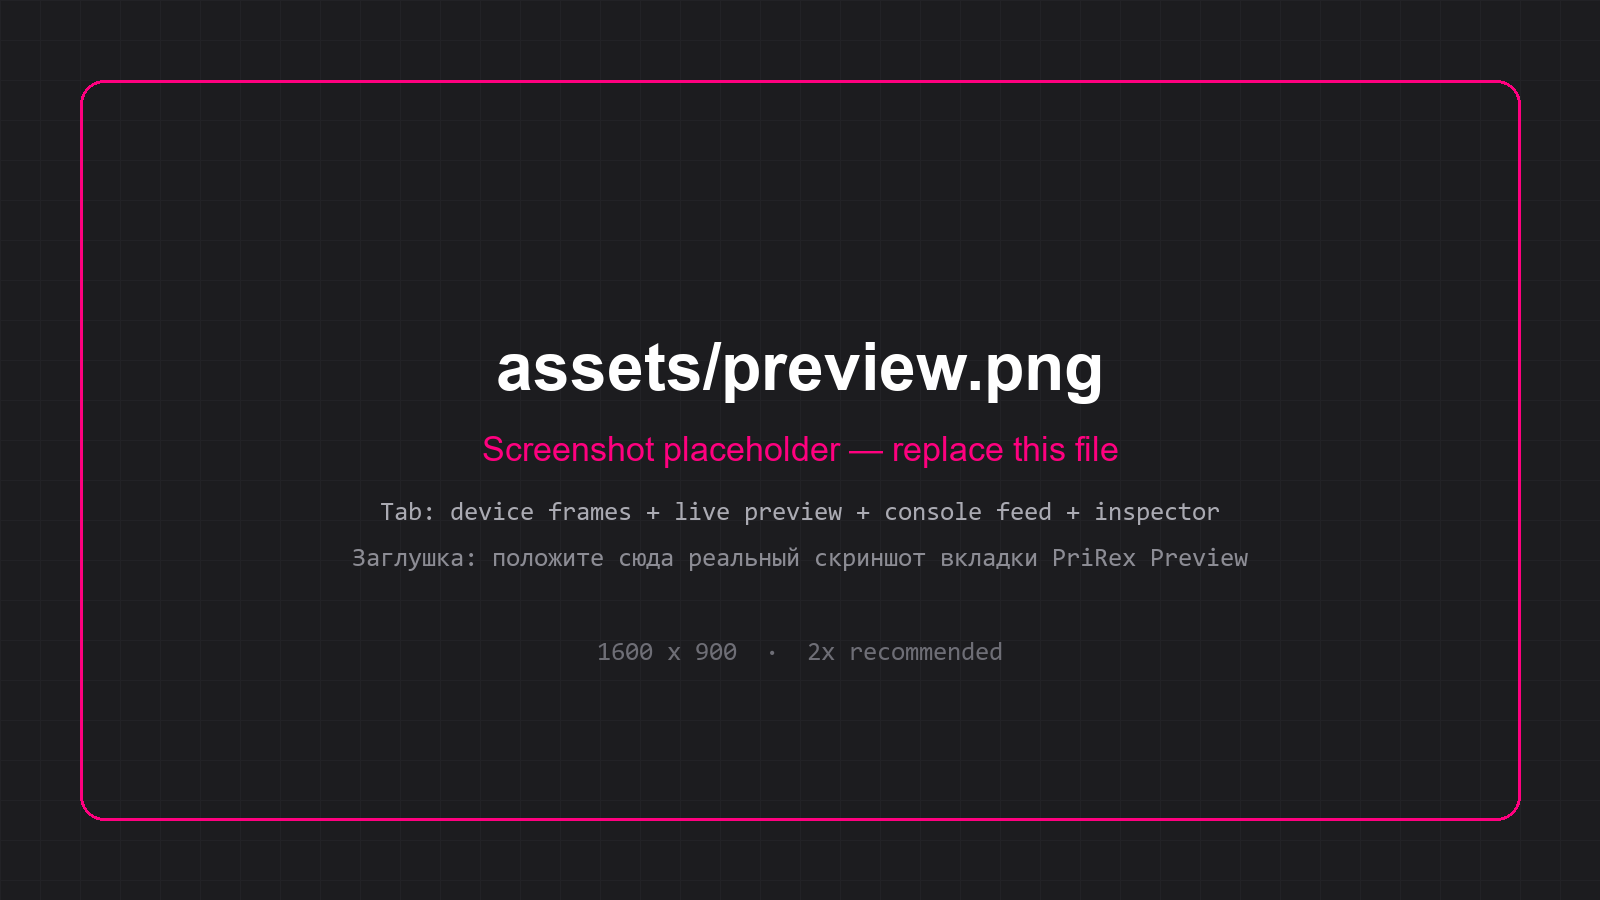
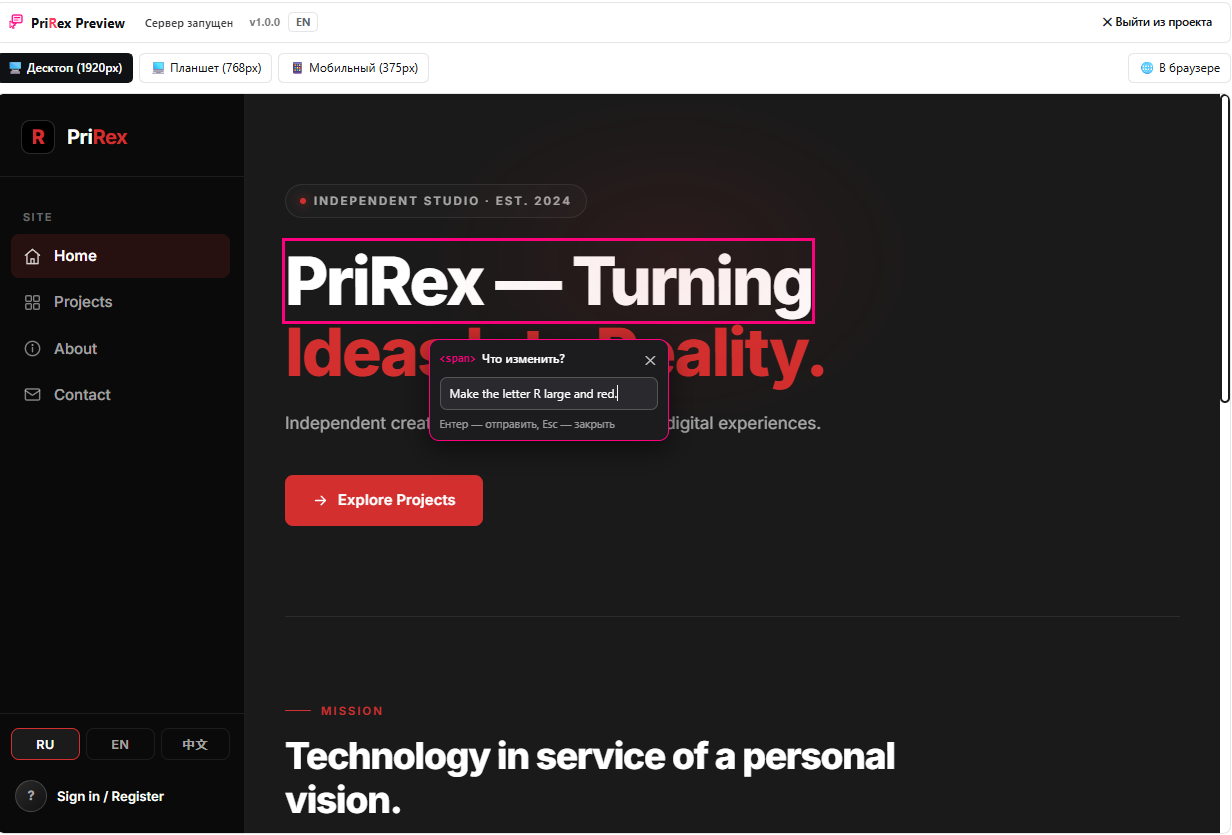
docs: replace screenshot placeholders with real product captures
Hero is the live tab (server running, device frames, inspector panel); adds device-frame, inspector close-up and the inspector-to-chat-draft shot with bilingual captions.

diff --git a/assets/README.md b/assets/README.md
@@ -1,23 +1,21 @@
 # Screenshots / Скриншоты
 
-Place release screenshots in this folder. / Положите скриншоты релиза в эту папку.
+All images here are real captures of PriRex Preview inside DeepSeek Harness.
+Все изображения — реальные кадры PriRex Preview в DeepSeek Harness.
 
-| File / Файл        | Status / Статус   | Content / Содержимое                                                   |
-| ------------------ | ----------------- | ---------------------------------------------------------------------- |
-| `inspector.png`    | real capture / реальный кадр | "What should change?" panel over a frozen element, served by the plugin |
-| `preview.png`      | placeholder / заглушка | Tab with device frames + live page (replace it / замените)        |
-| `console-feed.png` | optional / опционально | Console error journal with a captured error                          |
+| File / Файл          | Where it is used / Где используется            | Content / Содержимое                                                     |
+| -------------------- | --------------------------------------------- | ------------------------------------------------------------------------ |
+| `preview.png`        | README hero                                   | Open tab: server running, device buttons, live page, inspector panel      |
+| `device-frame.png`   | README, screenshots table                     | 1920 px frame with the previewed page, no DSH chrome                      |
+| `inspector.png`      | README, screenshots table                     | Close-up: frozen `<span>` with the «Что изменить?» panel                   |
+| `chat-insertion.png` | README, "From the inspector to the chat draft"| Chat draft with injected HTML + computed styles beside the live tab       |
+| `console-feed.png`   | optional / опционально                        | Console error journal with a captured error (not captured yet)            |
 
-`inspector.png` was captured from the actual injected inspector: the page is served by the plugin's
-preview server, the `<h1>` was hovered until it froze (pink outline) and the edit panel opened.
-Русский интерфейс панели соответствует языку по умолчанию (`prirex.lang = ru`).
+Notes / Заметки:
 
-`preview.png` is currently a labelled **placeholder** so the README renders without a broken image;
-replace it with a real screenshot of the DSH right-panel tab before publishing.
-/ Сейчас `preview.png` — подписанная **заглушка**; замените её настоящим скриншотом вкладки.
-
-Guidelines / Требования:
-
-- PNG, 2× scaling (Retina), dark theme of DSH / тёмная тема DSH;
-- crop out personal paths, API keys, chat content / обрежьте личные пути, ключи и переписку;
-- recommended size for the tab shot: 1200–1600 px wide / для вкладки — 1200–1600 px по ширине.
+- `chat-insertion.png` documents the core loop: inspector payload → draft → you press send
+  (auto-submit is always off). / Ключевой цикл: payload инспектора → черновик → отправляете вы.
+- Keep screenshots free of personal paths, API keys and unrelated chat content. /
+  Без личных путей, ключей и посторонней переписки.
+- Replace a file in place to refresh the README — filenames are referenced directly. /
+  Обновляйте картинки под теми же именами — README ссылается на них напрямую.
